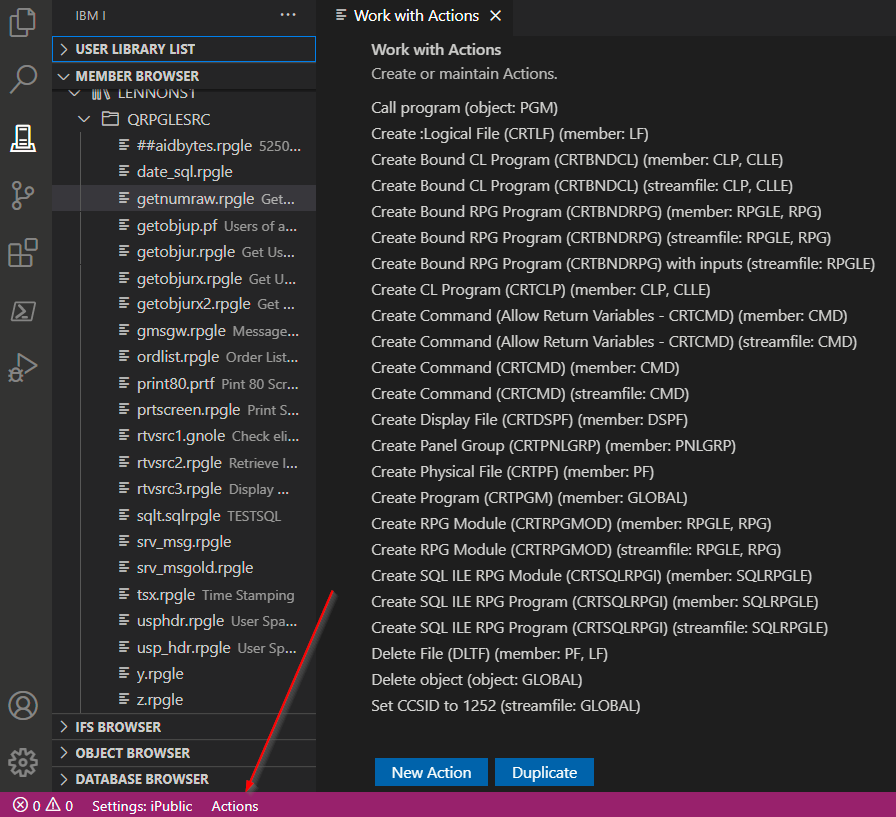
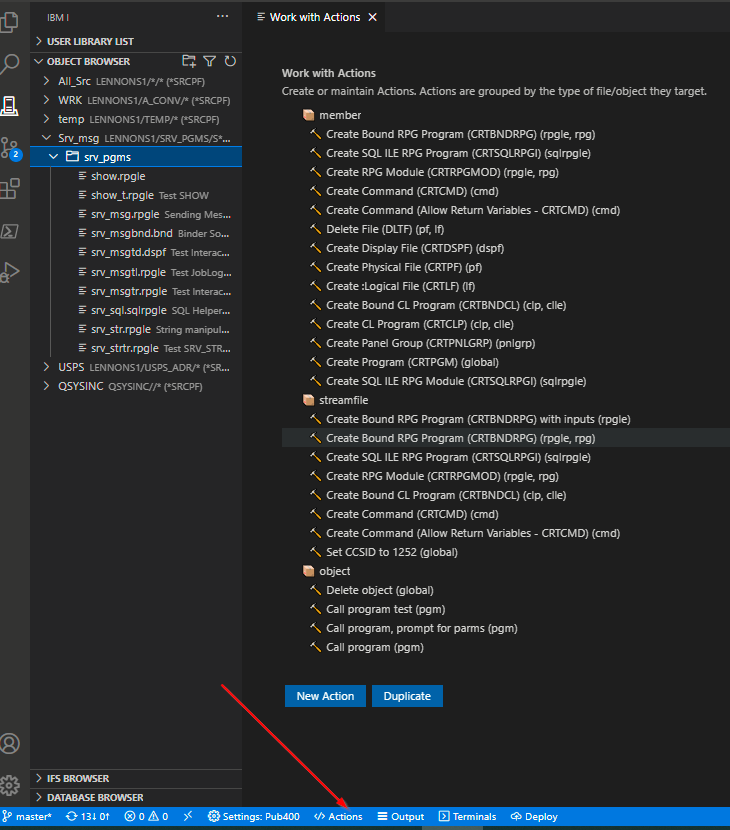
Add Reconnect/Output Btns&Font Tip. Tweak,Actions

Changed region(s): [[0.3315, 0.0, 0.9945, 0.8874], [0.0, 0.0, 1.0, 1.0], [0.0, 0.3672, 0.0603, 0.3978]]

diff --git a/docs/README.md b/docs/README.md
@@ -92,6 +92,12 @@ of the IBM i system you are connected to.
 
 To close a connection and logout out, press <kbd>F1</kbd>, search for ```IBM i: Disconnect from current connection```
 
+### Unstable Connections (Reconnect)
+
+If your connection is unstable and is sometimes lost, check the setting "Show Reconnect Button". See *Settings: Global*, below. This will add a "Force reconnect to system" button to the task bar.
+
+![Reconnect Button](assets/connect_06.png)
+
 ## Browsers
 
 In the side bar there are several browsers to display and intereact with various parts of the IBM i:
@@ -232,18 +238,23 @@ You can remove all the squiggly line using F1 and searching for IBM i Clear Diag
 
 ![Clear diagnostics](assets/EditComp-08.png)
 
+### Compile Listing
+
+If you have *Log Compile Output* checked in settings (see *Settings: Global*, below), then compile listings are found under the Output tab by selecting IBM i Output.  Use the shortcut Output icon on the tool bar to jump to the compile listing.
+
+![Output button](assets/EditComp-09.png)
+
 ## Actions
 
-An action is used to perform a task, e.g. a compile, on a member, streamfile or other type of object.
-A comprehensive default set of actions is loaded directly from the extension. You can change or add to actions using the user interface below.  
+An action is used to perform a task on a member, streamfile or other type of object. A comprehensive default set of actions is loaded directly from the extension. You can also easily change or add to actions--see *View/Change/Add Actions*, below.
 
 If you change or add actions as below, then all actions are saved in the ```code-for-ibmi.actions``` section in ```settings.json```. You can also edit the```code-for-ibmi.actions``` section manually. If it doesn't exist, you can create you own ```code-for-ibmi.actions``` section in ```settings.json```.  
 
 **Note:** When  a  ```code-for-ibmi.actions``` section  exists in ```settings.json``` the set of actions is loaded from there, not from the default set in the extension.
 
-![assets/actions_01.png](assets/actions_01.png)
+<!-- ![assets/actions_01.png](assets/actions_01.png) -->
 
-Actions are defined commands used to perform tasks on members, streamfiles and other types of objects. Actions can be executed from two different places:
+Actions are defined commands used to perform tasks on members, streamfiles and other types of objects. For example, to compile a source file. Actions can be executed from two different places:
 
 - As you're writing code. For example, to compile a program or module.
 - When you right click on a member, streamfile or an object from the OBJECT BROWSER.
@@ -595,6 +606,14 @@ Right click and click 'Search' on IFS directories and source files to search thr
 ### Overtype
 
 VS Code works in "insert" mode. This can be annoying when editing a fixed mode source, for example DDS. Fortunately there is an [Overtype extension](https://marketplace.visualstudio.com/items?itemName=DrMerfy.overtype) that allows you to toggle between insert and  overtype, and can also display the current mode in the status bar.
+
+### Font Size
+
+Font size in the editor is controlled by the VS Code setting *Editor: Font Size*.  However, with your cursor in an editor, you can also temporarily change the editor font size by holding Ctrl and using your mouse scroll bar.
+
+Font size in the Menu, Side, Status and Activity bars can be changed using holding down Ctrl, then using  + or -. Such changes will hold from session to session. However, this will also change the size of the editor font and you may have to adjust it as above for this session.
+
+Rule of thumb: Experiment.
 
 ### Integrated terminals
 
